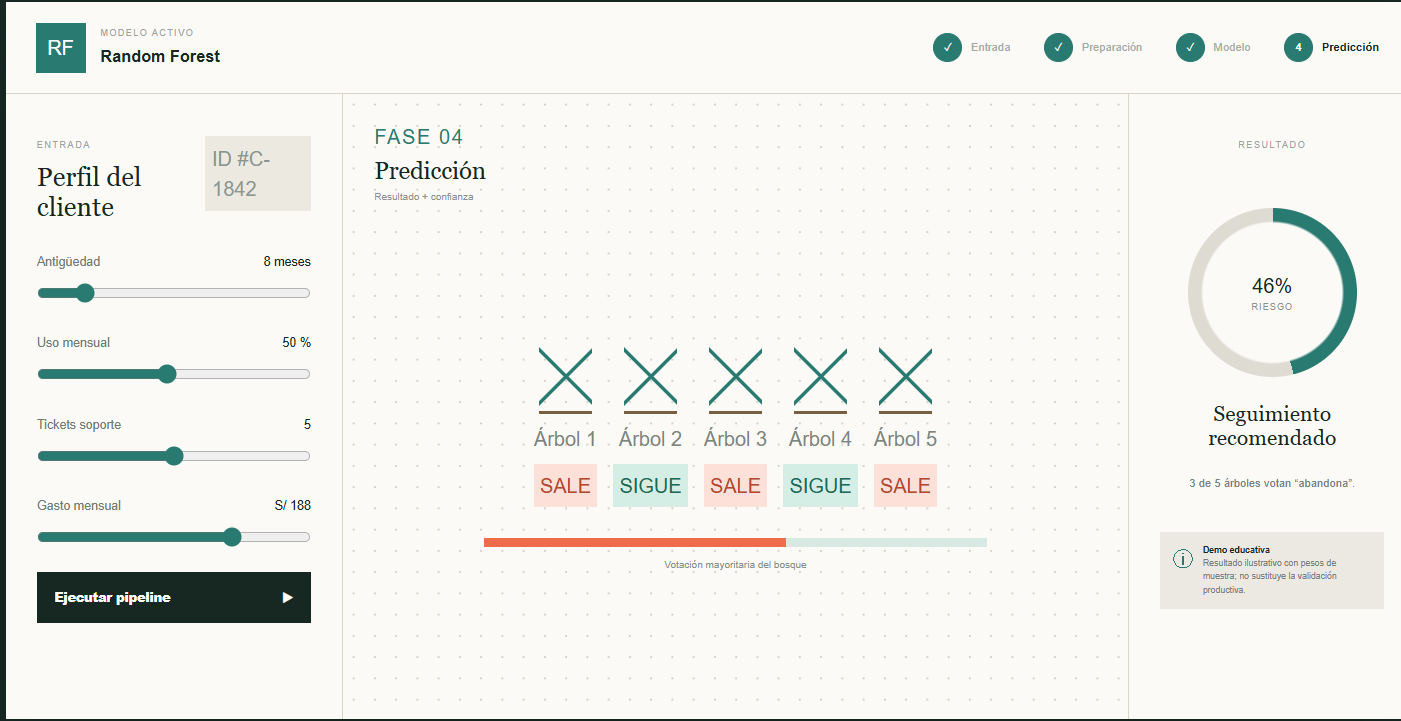
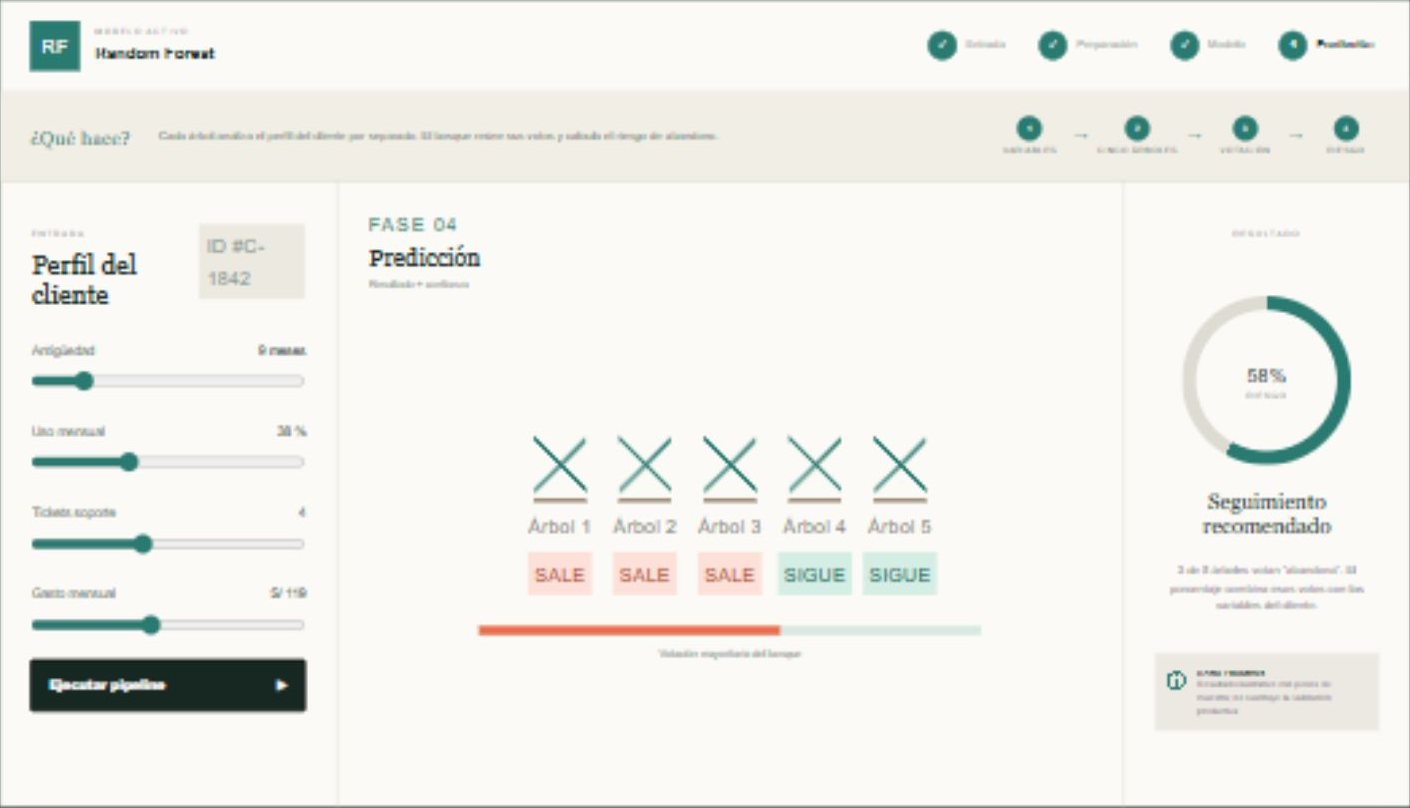
Improve neural animation and refresh screenshots

diff --git a/app/globals.css b/app/globals.css
@@ -95,7 +95,9 @@ button { cursor:pointer; }
 .phase-nav button { border:0; background:none; padding:5px; font-size:9px; color:#a5aaa7; display:flex; align-items:center; gap:7px; }
 .phase-nav button span { width:23px; height:23px; border:1px solid #c9ccc8; border-radius:50%; display:grid; place-items:center; font:9px var(--font-geist-mono); }
 .phase-nav button.active { color:var(--ink); font-weight:700; }.phase-nav button.active span { background:var(--model-accent); color:white; border-color:var(--model-accent); }.phase-nav button.done span { background:var(--teal); color:white; border-color:var(--teal); }
-.workbench-body { display:grid; grid-template-columns:270px 1fr 230px; min-height:500px; }
+.model-guide { min-height:72px; display:grid; grid-template-columns:85px minmax(220px,1fr) auto; align-items:center; gap:18px; padding:12px 24px; border-bottom:1px solid var(--line); background:#f1eee6; }
+.model-guide > strong { font:400 16px Georgia,serif; color:var(--model-accent); }.model-guide > p { margin:0; max-width:510px; color:#63716b; font-size:9px; line-height:1.55; }.model-guide > div { display:flex; align-items:center; gap:8px; }.model-guide span { display:grid; place-items:center; gap:3px; min-width:54px; color:#63716b; font-size:7px; text-transform:uppercase; letter-spacing:.5px; }.model-guide span b { width:20px; height:20px; display:grid; place-items:center; border-radius:50%; color:white; background:var(--model-accent); font:8px var(--font-geist-mono); }.model-guide i { color:var(--model-accent); font-style:normal; font-size:11px; }
+.workbench-body { display:grid; grid-template-columns:270px minmax(0,1fr) 230px; min-height:500px; }
 .input-panel, .result-panel { padding:25px; }.input-panel { border-right:1px solid var(--line); }.result-panel { border-left:1px solid var(--line); text-align:center; }
 .panel-title { display:flex; align-items:center; justify-content:space-between; }.panel-title small, .result-panel > small { font-size:7px; letter-spacing:1.4px; color:#9ba39f; }.panel-title h3 { margin:5px 0 0; font:400 21px Georgia,serif; }.panel-title button { border:0; background:none; color:var(--coral); font-size:9px; font-weight:700; }.record-id { font:8px var(--font-geist-mono); color:#8a9690; background:#ece9e1; padding:6px; }
 .hint { font-size:9px; line-height:1.5; color:#8a9690; margin:10px 0 17px; }
@@ -106,12 +108,21 @@ button { cursor:pointer; }
 .slider-row { display:grid; gap:9px; margin-top:25px; }.slider-row > span { display:flex; justify-content:space-between; font-size:10px; color:#6e7b75; }.slider-row b { color:var(--ink); font:10px var(--font-geist-mono); }.slider-row input { accent-color:var(--model-accent); width:100%; }
 .upload-zone { height:250px; border:1px dashed #a8aca8; display:flex; flex-direction:column; justify-content:center; align-items:center; gap:9px; margin-top:20px; overflow:hidden; background:#f2f0e9; cursor:pointer; }.upload-zone input { display:none; }.upload-zone > span { width:38px; height:38px; display:grid; place-items:center; border-radius:50%; background:white; color:var(--purple); }.upload-zone strong { font-size:11px; }.upload-zone small { font-size:8px; color:#8b928e; }.upload-zone img { width:100%; height:100%; object-fit:cover; }
 .animal-samples { display:flex; gap:5px; margin-top:9px; }.animal-samples button { flex:1; border:1px solid var(--line); background:white; padding:5px; display:flex; align-items:center; gap:3px; font-size:8px; text-transform:capitalize; }.animal-samples button.chosen { border-color:var(--purple); }.animal-samples span { font-size:17px; }
-.process-panel { position:relative; padding:28px 27px; display:flex; flex-direction:column; justify-content:center; background-image:radial-gradient(#d4d1c9 1px, transparent 1px); background-size:17px 17px; overflow:hidden; }
+.process-panel { min-width:0; position:relative; padding:28px 27px; display:flex; flex-direction:column; justify-content:center; background-image:radial-gradient(#d4d1c9 1px, transparent 1px); background-size:17px 17px; overflow:hidden; }
 .process-label { position:absolute; top:22px; left:25px; display:grid; gap:4px; }.process-label span { color:var(--model-accent); font:bold 7px var(--font-geist-mono); letter-spacing:1.3px; }.process-label b { font:400 19px Georgia,serif; }.process-label small { font-size:8px; color:#8b938f; }
-.network { height:250px; display:flex; justify-content:space-around; align-items:center; position:relative; }.network:before { content:""; position:absolute; inset:30px 15%; background:repeating-linear-gradient(7deg, transparent 0 20px, color-mix(in srgb, var(--model-accent) 25%, transparent) 21px 22px); }
-.node-layer { height:100%; display:flex; flex-direction:column; justify-content:space-around; z-index:1; }.node-layer i { width:14px; height:14px; border-radius:50%; border:2px solid var(--model-accent); background:white; box-shadow:0 0 0 4px color-mix(in srgb, var(--model-accent) 7%, white); transition:.4s; }
-.phase-0 .node-layer:not(:first-child) i { opacity:.12!important; }.phase-1 .node-layer:nth-child(n+3) i { opacity:.12!important; }.phase-2 .node-layer:last-child i { opacity:.2!important; }
-.network-caption { display:flex; justify-content:space-around; font:7px var(--font-geist-mono); color:#78847e; text-transform:uppercase; }
+.network { height:250px; display:flex; justify-content:space-around; align-items:center; position:relative; overflow:hidden; }
+.signal-lanes { position:absolute; inset:22px 8%; opacity:.65; transition:.4s; }.signal-lanes > i { --lane:0; position:absolute; left:4%; top:calc(12% + var(--lane) * 11%); width:92%; height:1px; background:linear-gradient(90deg, transparent, color-mix(in srgb, var(--model-accent) 42%, transparent) 18% 82%, transparent); transform:rotate(calc((var(--lane) - 3) * 1.35deg)); transform-origin:center; }.signal-lanes > i > b { position:absolute; top:-3px; left:0; width:7px; height:7px; border-radius:50%; background:var(--model-accent); box-shadow:0 0 0 4px color-mix(in srgb, var(--model-accent) 18%, transparent),0 0 12px var(--model-accent); opacity:0; }
+.node-layer { height:100%; display:flex; flex-direction:column; justify-content:space-around; z-index:1; }.node-layer > i { --node-delay:0s; position:relative; width:16px; height:16px; border-radius:50%; border:2px solid var(--model-accent); background:white; box-shadow:0 0 0 4px color-mix(in srgb, var(--model-accent) 8%, white); transition:opacity .4s, transform .35s, box-shadow .35s; }.node-layer > i > b { position:absolute; inset:3px; border-radius:50%; background:var(--model-accent); transform:scale(.3); opacity:.45; }
+.phase-0 .node-layer:not(.layer-0) i { opacity:.10!important; }.phase-0 .signal-lanes { opacity:.08; }.phase-1 .node-layer:nth-of-type(n+4) i { opacity:.12!important; }.phase-1 .signal-lanes { opacity:.22; }.phase-2 .node-layer:last-of-type i { opacity:.20!important; }
+.phase-2 .signal-lanes > i > b,.phase-3 .signal-lanes > i > b { animation:signalTravel 1.8s cubic-bezier(.4,0,.2,1) infinite; animation-delay:var(--delay); }
+.phase-2 .node-layer > i,.phase-3 .node-layer > i { animation:nodeEnergy 1.8s ease-in-out infinite; animation-delay:var(--node-delay); }
+.phase-3 .node-layer:last-of-type > i { animation:outputDecision 1.15s ease-in-out infinite; animation-delay:var(--node-delay); }
+.network-caption { display:flex; justify-content:space-around; font:7px var(--font-geist-mono); color:#78847e; text-transform:uppercase; }.network-caption span { display:flex; align-items:center; gap:5px; }.network-caption b { width:16px;height:16px;border-radius:50%;display:grid;place-items:center;background:color-mix(in srgb,var(--model-accent) 14%,white);color:var(--model-accent);font-size:7px; }
+.flow-status { width:max-content; max-width:90%; margin:17px auto 0; display:flex; align-items:center; gap:8px; padding:7px 11px; border:1px solid color-mix(in srgb,var(--model-accent) 30%,#ddd); background:white; color:#66736d; font:8px var(--font-geist-mono); }.flow-status i { width:7px;height:7px;border-radius:50%;background:var(--model-accent);box-shadow:0 0 0 0 color-mix(in srgb,var(--model-accent) 45%,transparent);animation:statusPulse 1.4s ease-out infinite; }
+@keyframes signalTravel { 0%{left:0;opacity:0;transform:scale(.6)} 15%{opacity:1} 85%{opacity:1} 100%{left:100%;opacity:0;transform:scale(1.15)} }
+@keyframes nodeEnergy { 0%,100%{transform:scale(.9);box-shadow:0 0 0 4px color-mix(in srgb,var(--model-accent) 8%,white)} 45%{transform:scale(1.14);box-shadow:0 0 0 7px color-mix(in srgb,var(--model-accent) 18%,transparent),0 0 14px color-mix(in srgb,var(--model-accent) 45%,transparent)} }
+@keyframes outputDecision { 0%,100%{transform:scale(1)} 50%{transform:scale(1.3);box-shadow:0 0 0 9px color-mix(in srgb,var(--model-accent) 18%,transparent),0 0 18px var(--model-accent)} }
+@keyframes statusPulse { 0%{box-shadow:0 0 0 0 color-mix(in srgb,var(--model-accent) 45%,transparent)} 100%{box-shadow:0 0 0 8px transparent} }
 .tree-row { display:flex; gap:8px; align-items:end; justify-content:center; margin:80px 0 25px; }.tree { width:60px; display:grid; place-items:center; gap:8px; transition:.3s; }.tree i { display:block; width:42px; height:58px; background:linear-gradient(135deg, transparent 48%, var(--teal) 49% 52%, transparent 53%), linear-gradient(45deg, transparent 48%, var(--teal) 49% 52%, transparent 53%); border-bottom:3px solid #785f42; }.tree span { font:7px var(--font-geist-mono); color:#7a8580; }.tree b { font:7px var(--font-geist-mono); padding:5px; }.tree b.leave { background:#fde1d8;color:#b6462d; }.tree b.stay { background:#d5eee5;color:#1d6b56; }.phase-0 .tree:nth-child(n+2),.phase-1 .tree:nth-child(n+4) { opacity:.18; transform:translateY(10px); }
 .vote-line { width:70%; height:7px; margin:0 auto 8px; background:#d8e8e2; }.vote-line span { display:block; height:100%; background:var(--coral); transition:.4s; }.forest-view > small { display:block; text-align:center; font-size:8px; color:#84908a; }
 .conv-view { min-height:300px; display:flex; align-items:center; justify-content:center; gap:24px; position:relative; }.conv-source { width:95px; height:95px; display:grid; place-items:center; font-size:65px; background:#e7e3d9; overflow:hidden; }.conv-arrow { color:var(--purple); font-size:22px; }.feature-stack { position:relative; width:90px; height:100px; }.feature-stack i { position:absolute; top:17px; left:12px; width:62px; height:62px; border:2px solid var(--purple); background:repeating-linear-gradient(45deg, #dcd5f2 0 5px, #9b8cd1 5px 9px); opacity:.75; }.dense-stack { display:flex; flex-direction:column; gap:7px; }.dense-stack i { width:12px; height:12px; border-radius:50%; background:var(--purple); }.conv-labels { position:absolute; bottom:20px; left:8%; right:8%; display:flex; justify-content:space-around; font:7px var(--font-geist-mono); color:#78847e; text-transform:uppercase; }.phase-0 .feature-stack,.phase-0 .dense-stack,.phase-1 .dense-stack { opacity:.12; }.phase-0 .conv-arrow,.phase-1 .conv-arrow:last-of-type { opacity:.12; }
@@ -126,7 +137,7 @@ footer { max-width:1184px;margin:auto;padding:35px 28px;display:flex;align-items
   .topbar nav { display:none; }.hero { grid-template-columns:1fr; padding-top:55px; }.hero-copy { text-align:center; }.hero-copy > p,.hero-proof { margin-left:auto;margin-right:auto; }.hero .eyebrow,.hero-actions { justify-content:center; }.hero h1 { font-size:68px; }.hero-visual { min-height:460px; }.stage-grid { grid-template-columns:repeat(3,1fr); }.stage-grid article:nth-child(3) { border-right:0; }.workbench-body { grid-template-columns:250px 1fr; }.result-panel { grid-column:1/-1;border-left:0;border-top:1px solid var(--line);display:grid;grid-template-columns:160px 1fr 1fr;align-items:center;text-align:left;gap:20px; }.result-panel > small,.model-note { grid-column:1/-1; }.big-result,.risk-ring,.animal-result { margin:0 auto; }.governance-grid { grid-template-columns:1fr; }.api-grid { gap:35px; }.trust-row { flex-wrap:wrap;padding:15px 25px; }
 }
 @media (max-width:700px) {
-  .topbar { padding:0 18px; }.outline-button.compact { display:none; }.hero { padding:50px 20px; }.hero h1 { font-size:53px;letter-spacing:-3px; }.hero-visual { min-height:380px; }.pipeline-window { transform:none; }.mini-pipeline { padding:18px; }.tag-two,.hero-stamp { right:-8px; }.section-wrap { padding-left:18px;padding-right:18px; }.method,.governance { padding-top:75px;padding-bottom:75px; }.section-heading { display:block; }.section-heading h2 { font-size:38px; }.section-heading > p { width:auto;margin-top:18px; }.stage-grid { grid-template-columns:repeat(2,1fr); }.stage-grid article:nth-child(3) { border-right:1px solid var(--line); }.stage-grid article:nth-child(even) { border-right:0; }.model-tabs { grid-template-columns:1fr; }.workbench-head { align-items:flex-start;padding:15px;gap:15px; }.phase-nav { overflow-x:auto;gap:4px; }.phase-nav button { font-size:0; }.workbench-body { display:block; }.input-panel,.result-panel { border:0;border-bottom:1px solid var(--line); }.digit-grid { margin:auto; }.process-panel { min-height:410px; }.result-panel { display:block;text-align:center; }.big-result,.risk-ring,.animal-result { margin:30px auto 12px; }.api-grid { grid-template-columns:1fr; }.api-grid h2 { font-size:39px; }footer { flex-direction:column;text-align:center; }.hero-visual:before { width:110%;height:95%; }.pipeline-window { width:100%; }.metric-strip strong { font-size:14px; }.float-tag { display:none; }
+  .topbar { padding:0 18px; }.outline-button.compact { display:none; }.hero { padding:50px 20px; }.hero h1 { font-size:53px;letter-spacing:-3px; }.hero-visual { min-height:380px; }.pipeline-window { transform:none; }.mini-pipeline { padding:18px; }.tag-two,.hero-stamp { right:-8px; }.section-wrap { padding-left:18px;padding-right:18px; }.method,.governance { padding-top:75px;padding-bottom:75px; }.section-heading { display:block; }.section-heading h2 { font-size:38px; }.section-heading > p { width:auto;margin-top:18px; }.stage-grid { grid-template-columns:repeat(2,1fr); }.stage-grid article:nth-child(3) { border-right:1px solid var(--line); }.stage-grid article:nth-child(even) { border-right:0; }.model-tabs { grid-template-columns:1fr; }.workbench-head { align-items:flex-start;padding:15px;gap:15px; }.phase-nav { overflow-x:auto;gap:4px; }.phase-nav button { font-size:0; }.model-guide { grid-template-columns:1fr;padding:14px 18px; }.model-guide > div { justify-content:space-between;overflow-x:auto; }.model-guide > p { max-width:none; }.workbench-body { display:block; }.input-panel,.result-panel { border:0;border-bottom:1px solid var(--line); }.digit-grid { margin:auto; }.process-panel { min-height:430px; }.result-panel { display:block;text-align:center; }.big-result,.risk-ring,.animal-result { margin:30px auto 12px; }.api-grid { grid-template-columns:1fr; }.api-grid h2 { font-size:39px; }footer { flex-direction:column;text-align:center; }.hero-visual:before { width:110%;height:95%; }.pipeline-window { width:100%; }.metric-strip strong { font-size:14px; }.float-tag { display:none; }
 }
 @media (prefers-reduced-motion:reduce) { html { scroll-behavior:auto; } * { transition:none!important; animation:none!important; } }
 

diff --git a/app/crisp-lab.tsx b/app/crisp-lab.tsx
@@ -25,7 +25,7 @@ const digitPatterns: Record<number, string[]> = {
   9: ["00111100","01100110","11000011","11000011","01100111","00111111","00000011","00000110","00001100","01111000"],
 };
 
-function blankGrid() { return Array(120).fill(0); }
+function blankGrid() { return Array(144).fill(0); }
 
 function patternGrid(n: number) {
   const result = blankGrid();
@@ -39,8 +39,9 @@ function recognizeDigit(grid: number[]) {
   const ranked = Object.entries(digitPatterns).map(([n]) => {
     const template = patternGrid(Number(n));
     let diff = 0;
-    for (let i = 0; i < grid.length; i++) diff += Math.abs(grid[i] - template[i]);
-    return { n: Number(n), score: Math.max(0.01, 1 - diff / grid.length) };
+    const length = Math.max(grid.length, template.length);
+    for (let i = 0; i < length; i++) diff += Math.abs((grid[i] ?? 0) - (template[i] ?? 0));
+    return { n: Number(n), score: Math.max(0.01, 1 - diff / length) };
   }).sort((a, b) => b.score - a.score);
   const finalists = ranked.slice(0, 3);
   const weights = finalists.map(item => Math.exp(item.score * 8));
@@ -120,6 +121,9 @@ export function CrispLab() {
           <div className="workbench" style={{"--model-accent": models[model].accent} as React.CSSProperties}>
             <div className="workbench-head"><div><span>{models[model].short}</span><p><small>MODELO ACTIVO</small><strong>{models[model].title}</strong></p></div><div className="phase-nav">{phaseLabels.map((label, i) => <button className={phase === i ? "active" : phase > i ? "done" : ""} onClick={() => setPhase(i)} key={label}><span>{phase > i ? "✓" : i + 1}</span>{label}</button>)}</div></div>
 
+            {model === "rn" && <div className="model-guide rn-guide"><strong>¿Qué hace?</strong><p>Convierte el dibujo en píxeles, activa neuronas que encuentran patrones y compara diez salidas para decidir qué número es.</p><div><span><b>1</b>Píxeles</span><i>→</i><span><b>2</b>Activaciones</span><i>→</i><span><b>3</b>Patrones</span><i>→</i><span><b>4</b>Probabilidad</span></div></div>}
+            {model === "rf" && <div className="model-guide rf-guide"><strong>¿Qué hace?</strong><p>Cada árbol analiza el perfil del cliente por separado. El bosque reúne sus votos y calcula el riesgo de abandono.</p><div><span><b>1</b>Variables</span><i>→</i><span><b>2</b>Cinco árboles</span><i>→</i><span><b>3</b>Votación</span><i>→</i><span><b>4</b>Riesgo</span></div></div>}
+
             <div className="workbench-body">
               <div className="input-panel">
                 {model === "rn" && <>
@@ -173,8 +177,15 @@ function Slider({label,value,setValue,min,max,unit,prefix=false}:{label:string,v
 }
 
 function NeuralView({phase,active,result}:{phase:number,active:number,result:number}) {
-  const layers = [[1,1,1,1,1,1,1,1],[1,1,1,1,1,1],[1,1,1,1,1],[1,1,1]];
-  return <div className={`neural-view phase-${phase}`}><div className="network">{layers.map((layer,li) => <div className="node-layer" key={li}>{layer.map((_,i) => <i key={i} style={{opacity: .25 + ((active+i*7+li*11)%10)/14}}></i>)}</div>)}</div><div className="network-caption"><span>{active} píxeles</span><span>64 activaciones</span><span>32 patrones</span><span>clase {result}</span></div></div>;
+  const layers = [8, 6, 5, 3];
+  return <div className={`neural-view phase-${phase}`}>
+    <div className="network">
+      <div className="signal-lanes" aria-hidden="true">{Array.from({length:7}).map((_,i) => <i key={i} style={{"--lane": i, "--delay": `${i * .16}s`} as React.CSSProperties}><b></b></i>)}</div>
+      {layers.map((count,li) => <div className={`node-layer layer-${li}`} key={li}>{Array.from({length:count}).map((_,i) => <i key={i} style={{"--node-delay": `${li * .38 + i * .06}s`, opacity: .34 + ((active+i*7+li*11)%10)/16} as React.CSSProperties}><b></b></i>)}</div>)}
+    </div>
+    <div className="network-caption"><span><b>1</b>{active} píxeles</span><span><b>2</b>64 activaciones</span><span><b>3</b>32 patrones</span><span><b>4</b>clase {result}</span></div>
+    <div className="flow-status"><i></i><span>{phase === 0 ? "Leyendo el dibujo" : phase === 1 ? "Normalizando píxeles" : phase === 2 ? "Propagando activaciones" : `Salida más probable: ${result}`}</span></div>
+  </div>;
 }
 
 function ForestView({phase,votes}:{phase:number,votes:boolean[]}) {

diff --git a/README.md b/README.md
@@ -6,9 +6,9 @@ Página única con un laboratorio interactivo para observar, por fases, tres mod
 
 El usuario dibuja un número en una cuadrícula. Cada cuadro funciona como un píxel de entrada; la simulación convierte esos píxeles en activaciones, compara el patrón con los números del 0 al 9 y devuelve los tres candidatos con mayor probabilidad.
 
-La captura original mostraba `NaN% confianza`. Era un error: la probabilidad podía quedar sin un valor válido durante la normalización. Se corrigió calculando pesos finitos, comprobando el total y normalizando los tres resultados para que sumen 100%.
+La captura original mostraba `NaN% confianza`. La causa era una cuadrícula reservada para 120 valores cuyo patrón podía extenderse hasta la posición 130. Se corrigió usando una matriz completa de 12×12 (144 píxeles), comparaciones seguras y una normalización finita cuyos tres resultados suman 100%.
 
-![Red neuronal antes de la corrección](docs/screenshots/red-neuronal-antes-de-correccion.png)
+![Red neuronal reconociendo el número siete](docs/screenshots/red-neuronal-reconocimiento.png)
 
 ## 2. Random Forest: riesgo de abandono
 
